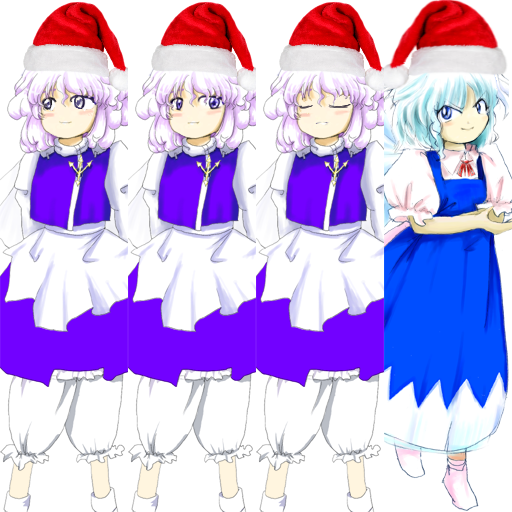
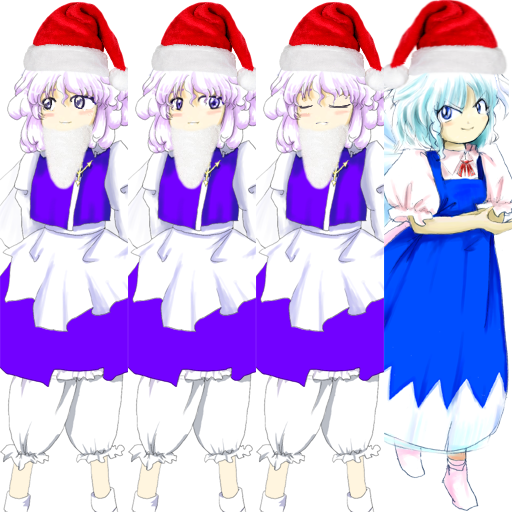
Christmas

Changed region(s): [[0.5625, 0.25, 0.6875, 0.375], [0.3125, 0.25, 0.4375, 0.375], [0.0625, 0.25, 0.1875, 0.375]]

diff --git a/ChristmasParty/files.js b/ChristmasParty/files.js
@@ -1,6 +1,6 @@
 {
 	"patch.js": 507221831,
-	"th07/data/face/st01/face_01_00.png": 768499023,
+	"th07/data/face/st01/face_01_00.png": 2466188653,
 	"th07/face/st01/face_01_00.png": null,
 	"th07/se_bonus.wav": null,
 	"th07/se_bonus2.wav": null,
